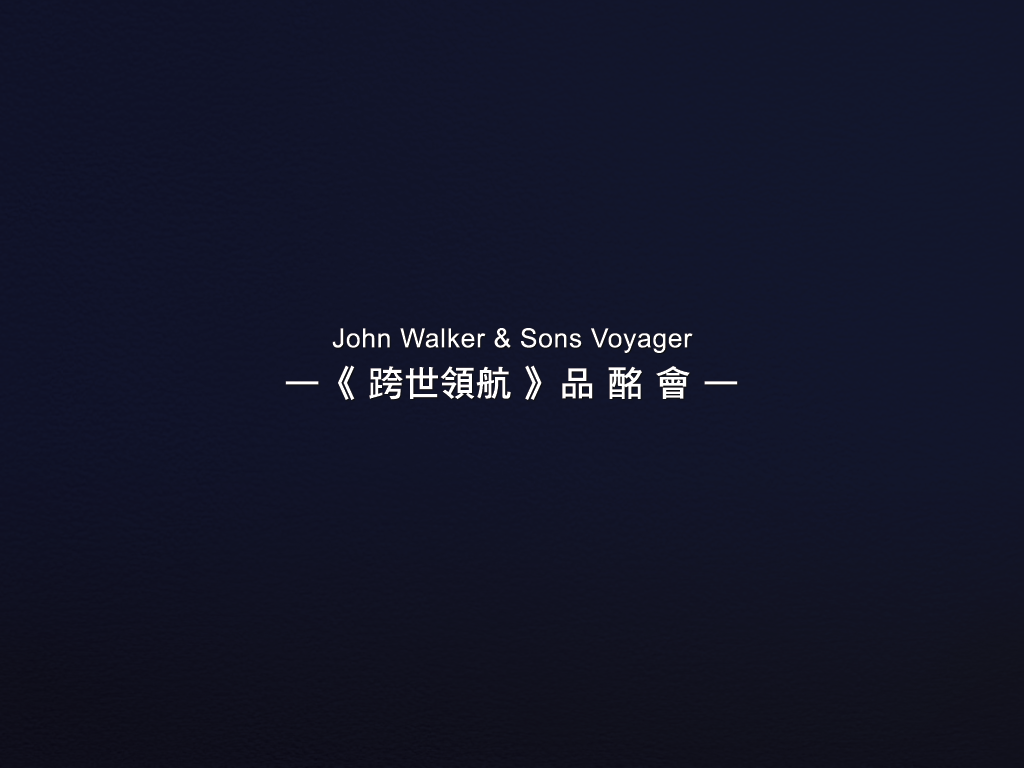
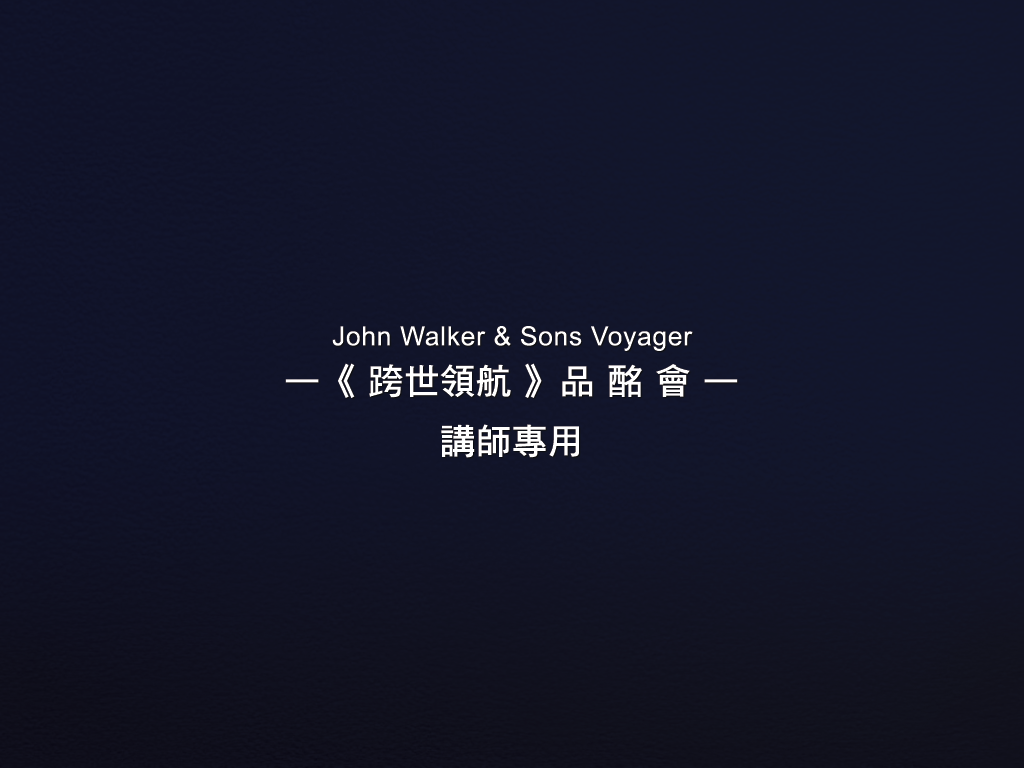
release version

Changed region(s): [[0.2812, 0.4062, 0.7188, 0.5938]]

diff --git a/Manager/MovieManager.m b/Manager/MovieManager.m
@@ -47,7 +47,7 @@
     return self;
 }
 
-- (void)setup
+- (void)setupPlayer
 {
     NSString *urlString = nil;
     if(IS_USING_WILL)
@@ -56,7 +56,7 @@
         
         if(IS_USING_LOCAL)
             urlString = [NSString stringWithFormat:@"ws://192.168.77.77/sync.ashx?username=%@", uuid];
-        else 
+        else
             urlString = [NSString stringWithFormat:@"ws://61.62.220.19:60080/WebSockets/chat.ashx?username=%@", uuid];
     }
     else
@@ -68,6 +68,11 @@
     NSURLRequest *request = [NSURLRequest requestWithURL:url];
     webSocket = [[SRWebSocket alloc] initWithURLRequest:request];
     webSocket.delegate = self;
+}
+
+- (void)setup
+{
+    [self setupPlayer];
     
     // register for application start up
     NSNotificationCenter *center = [NSNotificationCenter defaultCenter];
@@ -136,7 +141,6 @@
 - (void)openConnection
 {
     [NSObject cancelPreviousPerformRequestsWithTarget:self];
-    
     [webSocket open];
 }
 
@@ -153,7 +157,7 @@
     
     NSMutableDictionary *detail = [NSMutableDictionary dictionary];
     [detail setObject:[NSNumber numberWithInt:videoId]      forKey:@"videoId"];
-    [detail setObject:[NSNumber numberWithInt:playbackTime] forKey:@"timestamp"];
+    [detail setObject:[NSNumber numberWithDouble:playbackTime] forKey:@"timestamp"];
     [detail setObject:[NSNumber numberWithInt:action]       forKey:@"action"];
     
     [p setObject:detail forKey:@"detail"];
@@ -225,8 +229,26 @@
     NSTimeInterval time = [self.pingReceivedTime timeIntervalSinceDate:[NSDate date]];
     int diff = abs(time);
     if( diff > 3)
-        [self openConnection];
-    //NSLog(@"ping diff time: %d", abs(time));
+    {
+        /*
+         _webSocket.delegate = nil;
+         [_webSocket close];
+         
+         _webSocket = [[SRWebSocket alloc] initWithURLRequest:[NSURLRequest requestWithURL:[NSURL URLWithString:@"ws://localhost:9000/chat"]]];
+         _webSocket.delegate = self;
+         
+         self.title = @"Opening Connection...";
+         [_webSocket open];
+         */
+        
+        webSocket.delegate = nil;
+        [webSocket close];
+        [webSocket release];
+        
+        [self setupPlayer];
+        [webSocket open];
+    }
+    NSLog(@"ping diff time: %d", abs(time));
 }
 
 - (void)sendPing
@@ -285,7 +307,7 @@
     
     NSString *jsonString = (NSString *)message;
     
-    //NSLog(@"%@", jsonString);
+    NSLog(@"%@", jsonString);
     
     NSString *from = nil;
     

diff --git a/RemotePresenter/QuickViewController.m b/RemotePresenter/QuickViewController.m
@@ -92,19 +92,22 @@
     NSTimeInterval currentTime = self.player.currentPlaybackTime;
     int action = self.player.playbackState;
     
+    if (isnan(currentTime))
+        currentTime = 0.0f;
+    
     if(willResignActive == NO)
         [self.movieManager updatePlaybackInfo:movieId time:currentTime action:action];
 }
 
 - (void)playbackDidFinish:(NSNotification *)notif
 {
-    /*
+    
     int movieId = videoId;
     NSTimeInterval currentTime = self.player.currentPlaybackTime;
     int action = MPMoviePlaybackStateStopped;
     
     [self.movieManager updatePlaybackInfo:movieId time:currentTime action:action];
-     */
+    
     
     NSLog(@"playback finished");
 }
@@ -114,6 +117,8 @@
     NSTimeInterval currentTime = self.player.currentPlaybackTime;
     if (!isnan(currentTime))
         self.movieManager.currentMovieTimestamp = currentTime;
+    else
+        self.movieManager.currentMovieTimestamp = 0.0f;
 }
 
 #pragma mark - main methods

diff --git a/Manager/Constants.m b/Manager/Constants.m
@@ -8,6 +8,6 @@
 
 #import "Constants.h"
 
-BOOL const IS_TEACHER_MODE = NO;
+BOOL const IS_TEACHER_MODE = YES;
 BOOL const IS_USING_WILL = YES;
 BOOL const IS_USING_LOCAL = YES;
